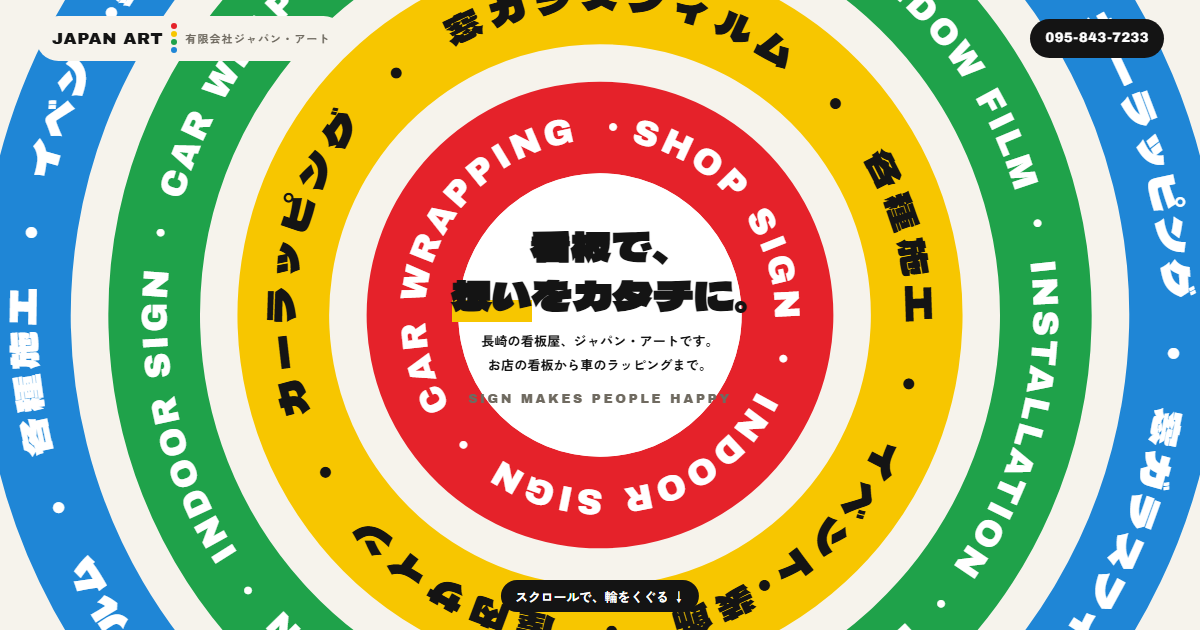
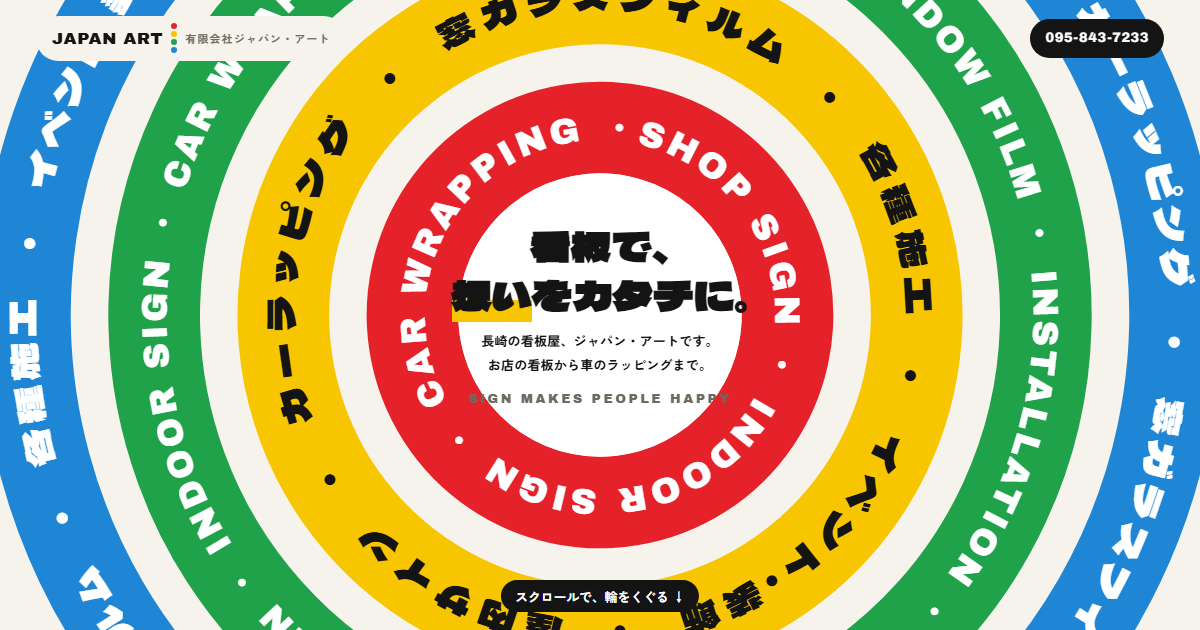
ジャパン・アート：できることを写真パネルが重なる形に、ネオンの壁は外す

diff --git a/s/dfc603fe7714c0b2/index.html b/s/dfc603fe7714c0b2/index.html
@@ -2,7 +2,7 @@
 <html lang="ja"><head>
 <script>document.documentElement.className += " js";</script><meta charset="utf-8"><meta name="viewport" content="width=device-width,initial-scale=1">
 <link rel="preconnect" href="https://fonts.googleapis.com"><link rel="preconnect" href="https://fonts.gstatic.com" crossorigin>
-<link href="https://fonts.googleapis.com/css2?family=Yellowtail&family=Archivo+Black&family=Archivo:wght@500;700;800&family=Dela+Gothic+One&family=Zen+Kaku+Gothic+New:wght@500;700;900&display=swap" rel="stylesheet">
+<link href="https://fonts.googleapis.com/css2?family=Archivo+Black&family=Archivo:wght@500;700;800&family=Dela+Gothic+One&family=Zen+Kaku+Gothic+New:wght@500;700;900&display=swap" rel="stylesheet">
 <style>
 :root{--red:#e5222a;--yel:#f7c600;--grn:#1fa24a;--blu:#1f86d6;--ink:#141414;--paper:#f6f3ec;--mute:#6f6a60;
   --en:"Archivo Black",sans-serif;--en2:"Archivo",sans-serif;--disp:"Dela Gothic One",sans-serif;--jp:"Zen Kaku Gothic New",sans-serif}
@@ -91,40 +91,34 @@ html.js .rv.is-in{opacity:1;translate:0 0}
 .msg .dots i:nth-child(2){animation-delay:.15s}.msg .dots i:nth-child(3){animation-delay:.3s}.msg .dots i:nth-child(4){animation-delay:.45s}
 @keyframes bob{50%{translate:0 -10px}}
 
-/* services as sticker cards */
-.serv .grid{display:grid;grid-template-columns:repeat(4,minmax(0,1fr));gap:clamp(14px,2vw,26px);margin-top:clamp(36px,5vw,60px)}
-.card{position:relative;background:#fff;border:3px solid var(--ink);border-radius:18px;padding:22px 20px 20px;box-shadow:6px 6px 0 var(--ink);transition:translate .25s, box-shadow .25s, rotate .25s}
-.card:hover{translate:-3px -3px;box-shadow:9px 9px 0 var(--ink);rotate:-1deg}
-.card .ic{width:52px;height:52px;border-radius:50%;display:grid;place-items:center;color:#fff;border:3px solid var(--ink)}
-.card .ic svg{width:26px;height:26px}
-.card b{display:block;margin-top:14px;font-family:var(--disp);font-weight:400;font-size:1.2rem}
-.card small{display:block;font-family:var(--en);font-size:.68rem;letter-spacing:.14em;color:var(--mute)}
-.card p{margin-top:.6em;font-size:.88rem;line-height:1.7}
-.card.wide{grid-column:span 2;background:var(--yel)}
-.more{margin-top:clamp(40px,5vw,60px);border-top:3px dashed #cfc8b8;padding-top:28px}
-.more h3{font-family:var(--disp);font-weight:400;font-size:1.2rem}
-.more ul{list-style:none;display:flex;flex-wrap:wrap;gap:10px;margin-top:14px}
-.more li{border:2px solid var(--ink);border-radius:99px;padding:.3em 1em;font-weight:700;font-size:.88rem;background:#fff}
-.more .note{margin-top:12px;font-size:.78rem;color:var(--mute)}
-
-/* neon wall (centerpiece): draw with finger or mouse, it lights up like a neon tube */
-.neon{background:#0d0d0f;color:#fff}
-.neon .kick{color:#bbb}
-.neon .lead{color:#cfcfcf}
-.stage{position:relative;margin-top:clamp(28px,4vw,44px);height:min(64vh,560px);border-radius:18px;overflow:hidden;background:#111 url("https://images.unsplash.com/photo-1604147495798-57beb5d6af73?w=1600&q=70&auto=format&fit=crop") center/cover;box-shadow:0 0 0 3px #2a2a2a}
-.stage::before{content:"";position:absolute;inset:0;background:radial-gradient(ellipse at 50% 40%,rgba(0,0,0,.35),rgba(0,0,0,.82))}
-.stage canvas{position:absolute;inset:0;width:100%;height:100%;touch-action:none;cursor:crosshair}
-.stage .tip{position:absolute;left:50%;bottom:16px;translate:-50% 0;font-size:.8rem;font-weight:700;color:#fff;background:rgba(0,0,0,.55);border:1px solid rgba(255,255,255,.2);border-radius:99px;padding:.35em 1em;pointer-events:none;transition:opacity .5s;white-space:nowrap}
-.ctrl{display:flex;flex-wrap:wrap;align-items:center;gap:10px 16px;margin-top:18px}
-.ctrl .cols{display:flex;gap:8px}
-.ctrl .cols button{width:34px;height:34px;border-radius:50%;border:3px solid #0d0d0f;box-shadow:0 0 0 2px #444;cursor:pointer}
-.ctrl .cols button[aria-pressed="true"]{box-shadow:0 0 0 3px #fff,0 0 14px var(--c)}
-.ctrl form{display:flex;gap:8px;flex:1;min-width:240px}
-.ctrl input{flex:1;min-width:0;font:inherit;font-weight:700;padding:.55em .9em;border-radius:10px;border:2px solid #444;background:#1a1a1d;color:#fff}
-.ctrl .b{font:inherit;font-weight:700;padding:.55em 1.1em;border-radius:10px;border:2px solid #fff;background:#fff;color:#111;cursor:pointer;white-space:nowrap}
-.ctrl .b.ghost{background:transparent;color:#fff;border-color:#555}
-.neon .note{margin-top:14px;font-size:.78rem;color:#9a9a9a}
-@media (max-width:640px){.stage{height:56vh}}
+/* services: photo panels that stack up as you scroll, a sticker slaps on each */
+.serv{padding-bottom:40px}
+.stack{margin-top:clamp(30px,4vw,50px)}
+.panel{position:sticky;top:calc(78px + var(--i) * 12px);height:min(76vh,640px);margin-bottom:6vh;border-radius:22px;overflow:hidden;background:#111;color:#fff;border:3px solid var(--ink);box-shadow:0 -10px 30px rgba(0,0,0,.18);display:grid;grid-template-columns:minmax(0,1.25fr) minmax(0,1fr);transform-origin:50% 0;scale:var(--sc,1);filter:brightness(var(--br,1))}
+.panel .ph{position:relative;overflow:hidden}
+.panel .ph img{width:100%;height:100%;object-fit:cover;scale:1.08;transition:scale 1.2s}
+.panel.in .ph img{scale:1}
+.panel .tx{position:relative;padding:clamp(24px,4vw,56px);display:flex;flex-direction:column;justify-content:flex-end;background:var(--bg)}
+.panel .no{position:absolute;right:clamp(16px,3vw,36px);top:clamp(10px,2vw,24px);font-family:var(--en);font-size:clamp(4rem,9vw,8rem);line-height:1;color:rgba(255,255,255,.14)}
+.panel .tx b{font-family:var(--disp);font-weight:400;font-size:clamp(1.9rem,3.6vw,3rem);line-height:1.2}
+.panel .tx small{display:block;margin-top:.4em;font-family:var(--en);letter-spacing:.2em;font-size:.78rem;opacity:.8}
+.panel .tx p{margin-top:1em;font-weight:500;max-width:22em}
+.panel.dark .tx{color:var(--ink)}
+.panel.dark .no{color:rgba(0,0,0,.12)}
+.panel .lbl{position:absolute;left:clamp(14px,3vw,34px);top:clamp(14px,3vw,34px);z-index:2;font-family:var(--en2);font-weight:800;color:#fff;border:3px solid #fff;border-radius:99px;padding:.45em 1.2em;box-shadow:0 6px 0 rgba(0,0,0,.14),0 10px 22px rgba(0,0,0,.25);rotate:-6deg;opacity:0;scale:2.2;transition:opacity .2s .25s, scale .45s cubic-bezier(.2,1.6,.4,1) .25s}
+.panel.in .lbl{opacity:1;scale:1}
+.belt{margin:clamp(10px,3vw,30px) calc(-1 * clamp(16px,5vw,80px)) 0;background:var(--ink);color:#fff;overflow:hidden;padding:18px 0;rotate:-2deg}
+.belt .row{display:flex;gap:14px;width:max-content;animation:belt 36s linear infinite}
+.belt span{font-weight:700;border:2px solid #fff;border-radius:99px;padding:.3em 1.1em;white-space:nowrap}
+.belt span:nth-child(4n+1){background:var(--red);border-color:var(--red)}.belt span:nth-child(4n+3){background:var(--blu);border-color:var(--blu)}
+@keyframes belt{to{translate:-50% 0}}
+.belt-note{margin-top:18px;font-size:.78rem;color:var(--mute)}
+@media (max-width:760px){
+  .panel{grid-template-columns:1fr;grid-template-rows:minmax(0,1.15fr) auto;height:min(78vh,620px);top:calc(70px + var(--i) * 8px)}
+  .panel .tx{padding:20px 20px 24px}
+  .panel .tx p{font-size:.9rem}
+}
+@media (prefers-reduced-motion:reduce){.panel{position:relative;top:auto}.panel .lbl{opacity:1;scale:1}.belt .row{animation:none}}
 
 /* works */
 .works{background:var(--paper)}
@@ -186,31 +180,10 @@ html.js .rv.is-in{opacity:1;translate:0 0}
 <section class="sec serv" id="service">
   <span class="kick rv"><i class="c2"></i>SERVICE</span>
   <h2 class="h2 rv">できること。</h2>
-  <div class="grid"><div class="card rv"><span class="ic c1"><svg viewBox="0 0 24 24" fill="none" stroke="currentColor" stroke-width="2.2" stroke-linecap="round" stroke-linejoin="round"><path d="M3 9l1.5-5h15L21 9"/><path d="M4 9v11h16V9"/><path d="M3 9h18"/><path d="M9 20v-6h6v6"/></svg></span><b>店舗看板</b><small>SHOP SIGN</small><p>お店の顔になる看板を。</p></div><div class="card rv"><span class="ic c2"><svg viewBox="0 0 24 24" fill="none" stroke="currentColor" stroke-width="2.2" stroke-linecap="round" stroke-linejoin="round"><rect x="3" y="4" width="18" height="12" rx="2"/><path d="M8 20h8M12 16v4"/></svg></span><b>屋内サイン</b><small>INDOOR SIGN</small><p>店内やオフィスのサインも。</p></div><div class="card rv"><span class="ic c3"><svg viewBox="0 0 24 24" fill="none" stroke="currentColor" stroke-width="2.2" stroke-linecap="round" stroke-linejoin="round"><path d="M3 13l2-6h14l2 6v5H3z"/><circle cx="7.5" cy="18" r="1.8"/><circle cx="16.5" cy="18" r="1.8"/><path d="M3 13h18"/></svg></span><b>カーラッピング</b><small>CAR WRAPPING</small><p>社用車やトラックを、走る看板に。</p></div><div class="card rv"><span class="ic c4"><svg viewBox="0 0 24 24" fill="none" stroke="currentColor" stroke-width="2.2" stroke-linecap="round" stroke-linejoin="round"><rect x="4" y="3" width="16" height="18" rx="1"/><path d="M12 3v18M4 12h16"/></svg></span><b>窓ガラスフィルム</b><small>WINDOW FILM</small><p>窓を使ったウインドウサイン。</p></div><div class="card rv"><span class="ic c1"><svg viewBox="0 0 24 24" fill="none" stroke="currentColor" stroke-width="2.2" stroke-linecap="round" stroke-linejoin="round"><path d="M14.7 6.3a4 4 0 0 0-5.4 5.4L3 18l3 3 6.3-6.3a4 4 0 0 0 5.4-5.4l-2.5 2.5-2.4-.6-.6-2.4z"/></svg></span><b>各種施工</b><small>INSTALLATION</small><p>看板の取り付けまで。</p></div><div class="card rv"><span class="ic c3"><svg viewBox="0 0 24 24" fill="none" stroke="currentColor" stroke-width="2.2" stroke-linecap="round" stroke-linejoin="round"><path d="M4 21V4"/><path d="M4 4h13l-3 4 3 4H4"/></svg></span><b>イベント・装飾</b><small>EVENT</small><p>展示やイベントの装飾も。</p></div><div class="card rv"><span class="ic c2"><svg viewBox="0 0 24 24" fill="none" stroke="currentColor" stroke-width="2.2" stroke-linecap="round" stroke-linejoin="round"><path d="M4 20l4-1 11-11-3-3L5 16z"/><path d="M14 6l3 3"/></svg></span><b>デザイン制作</b><small>DESIGN</small><p>何を伝えたいか、から一緒に考えます。</p></div><div class="card wide rv"><b>看板のこと、まずはお電話で。</b><p>「こんな看板にしたい」がまだぼんやりしていても大丈夫です。お話を聞きながら、形にしていきます。</p><p style="margin-top:.8em"><a href="tel:0958437233" style="font-family:var(--en);font-size:1.4rem;text-decoration:none">095-843-7233 →</a></p></div></div>
-  <div class="more rv">
-    <h3>こんなことも、ご相談ください。</h3>
-    <ul><li>大型インクジェットプリント</li><li>ステッカー</li><li>プラスチック加工</li><li>レーザー加工</li><li>LEDサイン</li><li>Tシャツ・マグカップのプリント</li><li>垂れ幕・横断幕・のぼり</li><li>看板の撤去・電球交換</li></ul>
-    <p class="note">※会社のウェブサイト（準備中のページ）に掲載されている営業品目から</p>
-  </div>
-</section>
-
-<section class="sec neon" id="neon">
-  <span class="kick rv"><i class="c3"></i>TRY IT</span>
-  <h2 class="h2 rv">光る看板を、<br>描いてみる。</h2>
-  <p class="lead rv">壁に指やマウスで線を描くと、ネオン管になって灯ります。文字を入れて「灯す」を押すと、看板の文字として光ります。</p>
-  <div class="stage rv" id="stage"><canvas id="cv" aria-label="ネオンを描くキャンバス"></canvas><span class="tip" id="tip">ここに描いてみてください</span></div>
-  <div class="ctrl rv">
-    <div class="cols" role="group" aria-label="色">
-      <button type="button" style="background:#ff3b41;--c:#ff3b41" data-c="#ff3b41" aria-label="赤" aria-pressed="true"></button>
-      <button type="button" style="background:#ffd21a;--c:#ffd21a" data-c="#ffd21a" aria-label="黄" aria-pressed="false"></button>
-      <button type="button" style="background:#2fe06a;--c:#2fe06a" data-c="#2fe06a" aria-label="緑" aria-pressed="false"></button>
-      <button type="button" style="background:#2fa3ff;--c:#2fa3ff" data-c="#2fa3ff" aria-label="青" aria-pressed="false"></button>
-      <button type="button" style="background:#ffffff;--c:#ffffff" data-c="#ffffff" aria-label="白" aria-pressed="false"></button>
-    </div>
-    <form id="tf"><input id="ti" type="text" maxlength="14" placeholder="店名を入れてみる" aria-label="光らせる文字"><button class="b" type="submit">灯す</button></form>
-    <button class="b ghost" type="button" id="clr">消す</button>
-  </div>
-  <p class="note rv">※このページの中だけで動く、描いて遊べる見本です。ホームページには、こうした「触って楽しい」仕掛けも入れられます。</p>
+  <div class="stack" id="stack"><article class="panel " style="--i:0;--bg:var(--red)"><div class="ph"><img src="https://images.unsplash.com/photo-1620194544222-8c956ca15f1d?w=1200&q=76&auto=format&fit=crop" alt="" loading="lazy"><span class="lbl c1">SHOP SIGN</span></div><div class="tx"><span class="no">01</span><b>店舗看板</b><small>SHOP SIGN</small><p>お店の顔になる看板を。通りから見つけてもらうための、いちばん大事な一枚です。</p></div></article><article class="panel dark" style="--i:1;--bg:var(--yel)"><div class="ph"><img src="https://images.unsplash.com/photo-1618623266812-f5075ba99663?w=1200&q=76&auto=format&fit=crop" alt="" loading="lazy"><span class="lbl c2">INDOOR SIGN</span></div><div class="tx"><span class="no">02</span><b>屋内サイン</b><small>INDOOR SIGN</small><p>店内やオフィスのサインも。入ってからの「迷わない」をつくります。</p></div></article><article class="panel " style="--i:2;--bg:var(--grn)"><div class="ph"><img src="https://images.unsplash.com/photo-1632823469850-2f77dd9c7f93?w=1200&q=76&auto=format&fit=crop" alt="" loading="lazy"><span class="lbl c3">CAR WRAPPING</span></div><div class="tx"><span class="no">03</span><b>カーラッピング</b><small>CAR WRAPPING</small><p>社用車やトラックを、走る看板に。まちを走るたびに名前が広がります。</p></div></article><article class="panel " style="--i:3;--bg:var(--blu)"><div class="ph"><img src="https://images.unsplash.com/photo-1554466343-d340fa1a13f7?w=1200&q=76&auto=format&fit=crop" alt="" loading="lazy"><span class="lbl c4">WINDOW FILM</span></div><div class="tx"><span class="no">04</span><b>窓ガラスフィルム</b><small>WINDOW FILM</small><p>窓を使ったウインドウサイン。ガラス越しに、お店の中の雰囲気まで伝えます。</p></div></article><article class="panel dark" style="--i:4;--bg:#f4f1ea"><div class="ph"><img src="https://images.unsplash.com/photo-1567093597754-35b79c864763?w=1200&q=76&auto=format&fit=crop" alt="" loading="lazy"><span class="lbl c1">INSTALLATION</span></div><div class="tx"><span class="no">05</span><b>各種施工</b><small>INSTALLATION</small><p>作った看板の取り付けまで。</p></div></article><article class="panel " style="--i:5;--bg:var(--ink)"><div class="ph"><img src="https://images.unsplash.com/photo-1766086893043-d38b06175015?w=1200&q=76&auto=format&fit=crop" alt="" loading="lazy"><span class="lbl c2">EVENT</span></div><div class="tx"><span class="no">06</span><b>イベント・装飾</b><small>EVENT</small><p>展示やイベントの装飾も。</p></div></article><article class="panel dark" style="--i:6;--bg:var(--yel)"><div class="ph"><img src="https://images.unsplash.com/photo-1498075702571-ecb018f3752d?w=1200&q=76&auto=format&fit=crop" alt="" loading="lazy"><span class="lbl c3">DESIGN</span></div><div class="tx"><span class="no">07</span><b>デザイン制作</b><small>DESIGN</small><p>何を伝えたいか、から一緒に考えます。</p></div></article></div>
+  <p class="h2 rv" style="font-size:clamp(1.2rem,2.4vw,1.8rem);margin-top:40px">こんなことも、ご相談ください。</p>
+  <div class="belt" aria-label="大型インクジェットプリント、ステッカー、プラスチック加工、レーザー加工、LEDサイン、Tシャツ・マグカップのプリント、垂れ幕・横断幕・のぼり、看板の撤去・電球交換"><div class="row"><span>大型インクジェットプリント</span><span>ステッカー</span><span>プラスチック加工</span><span>レーザー加工</span><span>LEDサイン</span><span>Tシャツ・マグカップのプリント</span><span>垂れ幕・横断幕・のぼり</span><span>看板の撤去・電球交換</span><span>大型インクジェットプリント</span><span>ステッカー</span><span>プラスチック加工</span><span>レーザー加工</span><span>LEDサイン</span><span>Tシャツ・マグカップのプリント</span><span>垂れ幕・横断幕・のぼり</span><span>看板の撤去・電球交換</span></div></div>
+  <p class="belt-note">※写真はイメージです（フリー素材）。品目は会社のウェブサイト（準備中のページ）に掲載のものから</p>
 </section>
 
 <section class="sec works" id="works">
@@ -295,55 +268,16 @@ html.js .rv.is-in{opacity:1;translate:0 0}
     rv.forEach(function(el){io.observe(el);});
   } else rv.forEach(function(el){el.classList.add('is-in');});
   setTimeout(function(){var stuck=[].some.call(rv,function(el){var r=el.getBoundingClientRect();return r.top<innerHeight&&r.bottom>0&&!el.classList.contains('is-in');});if(stuck)document.documentElement.classList.remove('js');},5000);
-  // neon wall
+  // service panels: sticker slaps when a panel arrives, earlier panels sink back
   (function(){
-    var cv=document.getElementById('cv'), stage=document.getElementById('stage'), tip=document.getElementById('tip'), ctx=cv.getContext('2d');
-    var items=[], cur=null, color='#ff3b41', W=0, H=0, dpr=1, running=false, shown=false;
-    var reduce=matchMedia('(prefers-reduced-motion: reduce)').matches;
-    function size(){dpr=Math.min(2,window.devicePixelRatio||1);var r=stage.getBoundingClientRect();W=r.width;H=r.height;cv.width=W*dpr;cv.height=H*dpr;ctx.setTransform(dpr,0,0,dpr,0,0);}
-    function bright(it,now){ // flicker when first lit, then a faint hum
-      var a=now-it.t0; if(reduce) return 1;
-      if(a<900){ var k=Math.floor(a/60); return [0,.9,0,0,1,.2,1,0,1,1,.6,1,1,1,1,1][k%16]; }
-      return .94+.06*Math.sin(now/90+it.t0);
-    }
-    function path(pts){ctx.beginPath();ctx.moveTo(pts[0][0],pts[0][1]);for(var i=1;i<pts.length-1;i++){var mx=(pts[i][0]+pts[i+1][0])/2,my=(pts[i][1]+pts[i+1][1])/2;ctx.quadraticCurveTo(pts[i][0],pts[i][1],mx,my);}var l=pts[pts.length-1];ctx.lineTo(l[0],l[1]);}
-    function drawItem(it,b){
-      ctx.lineCap='round';ctx.lineJoin='round';
-      var passes=[[26,.22,34],[9,.9,16],[3,1,4]];
-      if(it.type==='line'){
-        if(it.pts.length<2) return;
-        ctx.shadowBlur=0; ctx.strokeStyle='rgba(255,255,255,.10)'; ctx.lineWidth=9; path(it.pts); ctx.stroke(); // unlit glass tube
-        if(b<.05) return;
-        passes.forEach(function(q,i){ctx.globalAlpha=q[1]*b;ctx.lineWidth=q[0];ctx.strokeStyle=i===2?'#fff':it.c;ctx.shadowColor=it.c;ctx.shadowBlur=q[2];path(it.pts);ctx.stroke();});
-      }else{
-        ctx.font=it.size+'px Yellowtail, "Dela Gothic One", cursive';ctx.textAlign='center';ctx.textBaseline='middle';
-        ctx.shadowBlur=0;ctx.globalAlpha=1;ctx.fillStyle='rgba(255,255,255,.08)';ctx.fillText(it.text,it.x,it.y);
-        if(b<.05) return;
-        [[48,.55],[18,.95],[5,1]].forEach(function(q,i){ctx.globalAlpha=(i===2?.75:q[1])*b;ctx.shadowColor=it.c;ctx.shadowBlur=q[0];ctx.fillStyle=i===2?'#fff':it.c;ctx.fillText(it.text,it.x,it.y);});
-      }
-      ctx.globalAlpha=1;ctx.shadowBlur=0;
-    }
-    function frame(now){
-      ctx.clearRect(0,0,W,H);
-      items.forEach(function(it){drawItem(it,it.lit?bright(it,now):0);});
-      if(cur) drawItem(cur,.55);
-      if(running) requestAnimationFrame(frame);
-    }
-    function pos(e){var r=cv.getBoundingClientRect();return [e.clientX-r.left,e.clientY-r.top];}
-    cv.addEventListener('pointerdown',function(e){cv.setPointerCapture(e.pointerId);cur={type:'line',pts:[pos(e)],c:color};tip.style.opacity=0;});
-    cv.addEventListener('pointermove',function(e){if(!cur)return;var p=pos(e),l=cur.pts[cur.pts.length-1];if(Math.hypot(p[0]-l[0],p[1]-l[1])>2.5)cur.pts.push(p);});
-    function end(){if(!cur)return;if(cur.pts.length>1){cur.lit=true;cur.t0=performance.now();items.push(cur);if(items.length>40)items.shift();}cur=null;}
-    cv.addEventListener('pointerup',end);cv.addEventListener('pointercancel',end);
-    [].forEach.call(document.querySelectorAll('.cols button'),function(b){b.addEventListener('click',function(){color=b.dataset.c;[].forEach.call(document.querySelectorAll('.cols button'),function(x){x.setAttribute('aria-pressed',x===b?'true':'false')});});});
-    var line=0;
-    function addText(t){var sz=Math.min(W/Math.max(4,t.length*.62),H*.22);items.push({type:'text',text:t,c:color,x:W/2,y:H*(.3+.22*(line%3)),size:sz,lit:true,t0:performance.now()});line++;tip.style.opacity=0;}
-    document.getElementById('tf').addEventListener('submit',function(e){e.preventDefault();var t=document.getElementById('ti').value.trim();if(t)addText(t);});
-    document.getElementById('clr').addEventListener('click',function(){items=[];line=0;});
-    size(); addEventListener('resize',size);
-    new IntersectionObserver(function(es){es.forEach(function(e){
-      running=e.isIntersecting; if(running){requestAnimationFrame(frame);
-        if(!shown){shown=true;(document.fonts?document.fonts.load('40px Yellowtail'):Promise.resolve()).then(function(){addText('Japan Art');});}}
-    });}).observe(stage);
+    var ps=[].slice.call(document.querySelectorAll('.panel'));
+    var io=new IntersectionObserver(function(es){es.forEach(function(e){if(e.isIntersecting)e.target.classList.add('in');});},{threshold:.45});
+    ps.forEach(function(p){io.observe(p);});
+    if(matchMedia('(prefers-reduced-motion: reduce)').matches) return;
+    function f(){ps.forEach(function(p,i){var n=ps[i+1];if(!n){p.style.setProperty('--sc',1);p.style.setProperty('--br',1);return;}
+      var r=n.getBoundingClientRect(), t=Math.min(1,Math.max(0,1-(r.top-80)/(innerHeight*.8)));
+      p.style.setProperty('--sc',(1-.06*t).toFixed(3)); p.style.setProperty('--br',(1-.45*t).toFixed(3));});}
+    addEventListener('scroll',function(){requestAnimationFrame(f)},{passive:true}); f();
   })();
 })();
 </script>
